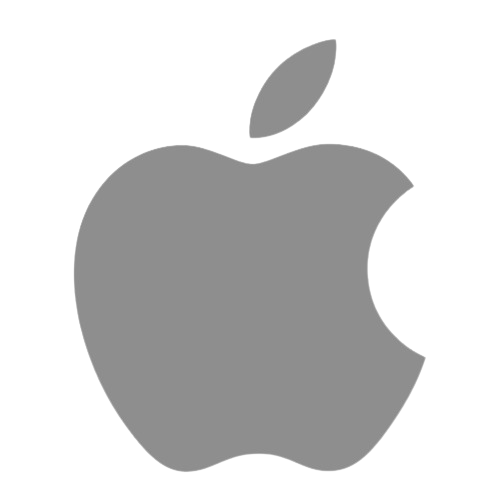
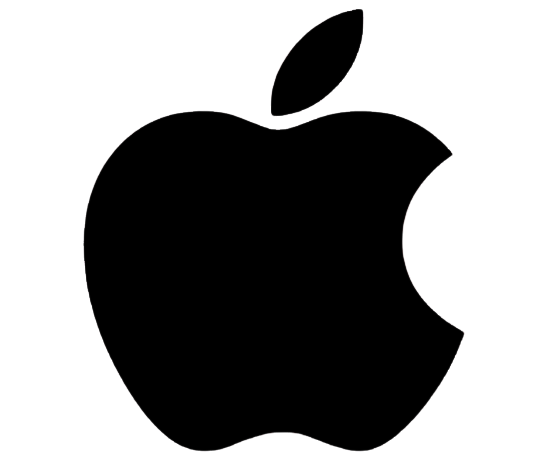
add new changes

diff --git a/index.html b/index.html
@@ -3,6 +3,7 @@
 <head>
     <meta charset="UTF-8">
     <meta name="viewport" content="width=device-width, initial-scale=1.0">
+    
     <link rel="stylesheet" href="styles.css">
 
     <title> Apple </title>
@@ -12,7 +13,7 @@
     <header>
         <div>
             <div class="logo">
-                <img src="/img/apple1.png" alt="">
+                <img src="/img/apple log.png" alt="">
             </div>
 
             <nav>
@@ -30,46 +31,135 @@
         </div>
     </header>
 
-    <section id="box1">
-        <div class="text-box1">
-            <h2> iPhone 14 </h2>
-            <p> Dos tamaños perfectos. </p>
-            <p> Ahora con el brillo del amarillo. </p>
-
-            <a href="#"> Más Información </a>
-        </div>
-
-        <div>
-            <img src="img/img1.png" alt="6celulares" title="6celulares">
-        </div>
+    <section class="container-box">
+        <section class="box1">
+            <div class="text-box1">
+                <h2> iPhone 14 </h2>
+                <p> Dos tamaños perfectos. </p>
+                <p> Ahora con el brillo del amarillo. </p>
+    
+                <a href="#"> Más Información </a>
+            </div>
+    
+            <div class="img-box1">
+                <img src="img/img1.png" alt="iPhone 14" title="iPhone 14">
+            </div>
+        </section>
+    
+        <section class="box2">
+            <div class="text-box2">
+                <h2> iPhone 14 Pro </h2>
+                <p> Se pasa de Pro. </p>
+    
+                <a href="#"> Más Información <i class="fa-sharp fa-light fa-chevron-right"></i> </a>
+            </div>
+            
+            <div>
+                <img src="img/img2.png" alt="iPhone 14 Pro" title="iPhone 14 Pro">
+            </div>
+        </section>
+    
+        <section class="box3">
+            <div class="text-box3">
+                <h2><img src="img/apple2.png"> WATCH </h2>
+                <h4> SERIES 8 </h4>
+                <p> Una evolución muy saludable. </p>
+    
+                <a href="#"> Más Información <i class="fa-sharp fa-light fa-chevrons-right" style="color: #6a90d2;"></i> </a>
+            </div>
+            
+            <div>
+                <img src="img/img3.png" alt="Watch" title="Watch">
+            </div>
+        </section>
     </section>
-
-    <section id="box2">
-        <div class="text-box2">
-            <h2>iPhone 14 Pro</h2>
-            <p> Se pasa de Pro. </p>
-
-            <a href="#"> Más Información </a>
-        </div>
+    
+    <section class="general-box">
+        <div class="box4">
+            <div>
+                <img src="/img/img4.png" alt="WWDC23" title="WWDC23">
+            </div>
+            
+            <div class="text-box4">
+                <h2><img src="img/apple2.png"> WWDC23 </h2>
+                <p> Conferencia Mundial de Desarrolladores de Apple. </p>
+                <p> Acompañándonos online del 5 al 9 de Junio. </p>
         
-        <div>
-            <img src="img/img2.png" alt="4celulares" title="4celulares">
+                <a href="#"> Más Información <i class="fa-sharp fa-light fa-chevrons-right"></i> </a>
+            </div>
         </div>
-    </section>
-
-    <section id="box3">
-        <div class="text-box3">
-            <h2><img src="img/apple2.png"> WATCH </h2>
-            <p> SERIES 8 </p>
-            <p> Una evolución muy saludable. </p>
-
-            <a href="#"> Más Información </a>
-        </div>
+    
+        <div class="box5">
+            <div class="text-box5">
+                <h2> iPad </h2>
+                <p> Inspírate. Exprésate. Diviértete. </p>
         
-        <div>
-            <img src="img/img3.png" alt="Watch" title="Watch">
+                <a href="#"> Más Información <i class="fa-sharp fa-light fa-chevrons-right"></i> </a>
+            </div>
+    
+            <div>
+                <img src="/img/img5.png" alt="iPad" title="iPad">
+            </div>
+        </div>
+
+        <div class="box6">
+            <div class="text-box6">
+                <h2> MacBook Pro </h2>
+                <p> Con los super poderes de los chips </p>
+                <p> M2 Pro y M2 Max. </p>
+        
+                <a href="#"> Más Información <i class="fa-sharp fa-light fa-chevrons-right"></i> </a>
+            </div>
+
+            <div>
+                <img src="/img/img6.png" alt="MacBook Pro" title="MacBook Pro">
+            </div>
+        </div>
+    
+        <div class="box7">
+            <div class="text-box7">
+                <h2><img src="img/apple1.png"> WATCH </h2>
+                <h4> ULTRA </h4>
+                <p> A la aventura.* </p>
+        
+                <a href="#"> Más Información <i class="fa-sharp fa-light fa-chevrons-right"></i> </a>
+            </div>
+
+            <div>
+                <img src="/img/img7.png" alt="Watch" title="Watch">
+            </div>
+        </div>
+
+        <div class="box8">
+            <div class="text-box8">
+                <h2> iPad Pro </h2>
+                <p> Con los superpoderes del chip. </p>
+        
+                <a href="#"> Más Información <i class="fa-sharp fa-light fa-chevrons-right"></i> </a>
+            </div>
+            
+            <div>
+                <img src="/img/img8.png" alt="iPad Pro" title="iPad Pro">
+            </div>
+        </div>
+
+        <div class="box9">
+            <div class="text-box9">
+                <h2> AirPods Pro </h2>
+                <p> Remasterizados por completo. </p>
+        
+                <a href="#"> Más Información <i class="fa-sharp fa-light fa-chevrons-right"></i> </a>
+            </div>
+            
+            <div>
+                <img src="/img/img9.png" alt="AirPods Pro" title="AirPods Pro">
+            </div>
         </div>
     </section>
-
+    
+    <footer>
+        
+    </footer>
 </body>
+
 </html>

diff --git a/styles.css b/styles.css
@@ -6,24 +6,33 @@
 
 /*HEADER*/
 header {
-    background-color: gainsboro;
+    background-color: gray;
+    height: 80px;
+    position: relative;
 }
 
 .logo img {
-    height: 50px;
-    width: 50px;
+    height: 80px;
+    width: 110px;
+    position: relative;
+    left: 40px;
+    top: -2px;
+}
+
+nav {
+    word-spacing: 40px;
+    position: relative;
+    left: 700px;
+    top: -40px;
 }
 
 nav a {
     text-decoration: none;
+    color: white;
 }
 
-/*GLOBAL*/
-img {
-    width: 600px;
-    height: 300px;
-}
 
+/*BODY*/
 h2 {
     font-size: 40px;
 }
@@ -36,28 +45,153 @@ a{
     font-size: 15px;
 }
 
-/*BODY*/
-#box1 {
-    background-color: thistle;
+.container-box h2 img {
+    width: 50px;
+    height: 50px;
+}
+
+.container-box img {
+    width: 750px;
+    height: 350px;
+}
+
+.box1 {
+    background-color: white;
     margin: 10px 0px 10px 0px;
     text-align: center;
+    height: 600px;
 }
 
-#box2 {
+.box2 {
     background-color: black;
     color: white;
     margin: 0px 0px 10px 0px;
     text-align: center;
+    height: 600px;
 }
 
-#box3 {
+.box3 {
     background-color: black;
     color: white;
-    margin: 0px 0px 10px 0px;
     text-align: center;
+    height: 600px;
+}
+.box3 .text-box3 h4 {
+   font-size: 20px;
+   letter-spacing: 5px;
+   color: red;
 }
 
-#box3 h2 img {
-    width: 25px;
-    height: 25px;
+.text-box1, .text-box2, .text-box3 {
+    padding-top: 80px;
+    padding-bottom: 45px;
+ }
+
+
+/**/
+.general-box {
+    position: relative;
+    padding: 10px 10px 10px 10px;
+    height: 1850px;
+}
+
+.general-box img {
+    width: 600px;
+    height: 300px;
+}
+
+.general-box h2{
+    font-size: 40px;
+}
+
+.general-box p {
+    font-size: 20px;
+}
+
+.general-box a{
+    font-size: 20px;
+}
+
+.general-box h2 img {
+    width: 30px;
+    height: 30px;
+}
+
+.box4 {
+    background-color: black; 
+    color: white;
+    text-align: center;
+    width: 910px;
+    height: 600px;
+    position: relative;
+}
+
+.box5 {
+    background-color: white;
+    color: black;
+    text-align: center;
+    width: 910px;
+    height: 600px;
+    margin: 10px 10px 10px 5px;
+    position: relative;
+    left: 920px;
+    top: -610px;
+}
+
+.box6 {
+    background-color: black; 
+    color: white;
+    text-align: center;
+    width: 910px;
+    height: 600px;
+    position: relative;
+    top: -605px;
+}
+
+.box7 {
+    background-color: white;
+    color: black;
+    text-align: center;
+    width: 910px;
+    height: 600px;
+    position: relative;
+    left: 925px;
+    top: -1205px;
+}
+.box7 h4 {
+    font-size: 20px;
+   letter-spacing: 5px;
+   color: orange;
+}
+
+.box8 {
+    background-color: black; 
+    color: white;
+    text-align: center;
+    width: 910px;
+    height: 600px;
+    position: relative;
+    top: -1190px;
+}
+
+.box9 {
+    background-color: white;
+    color: black;
+    text-align: center;
+    width: 910px;
+    height: 600px;
+    position: relative;
+    left: 925px;
+    top: -1790px;
+}
+
+.text-box4, .text-box5, .text-box6, .text-box7, .text-box8, .text-box9{ 
+    padding-top: 100px; 
+    padding-bottom: 50px;
+}
+
+/*FOOTER*/
+footer {
+    height: 100px;
+    background-color: gainsboro;
 }
